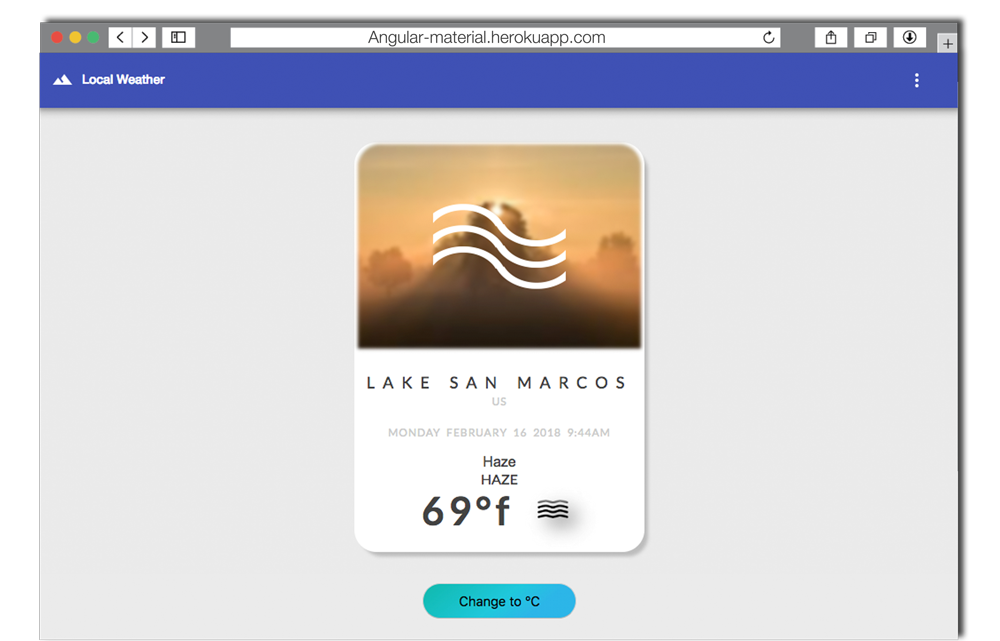
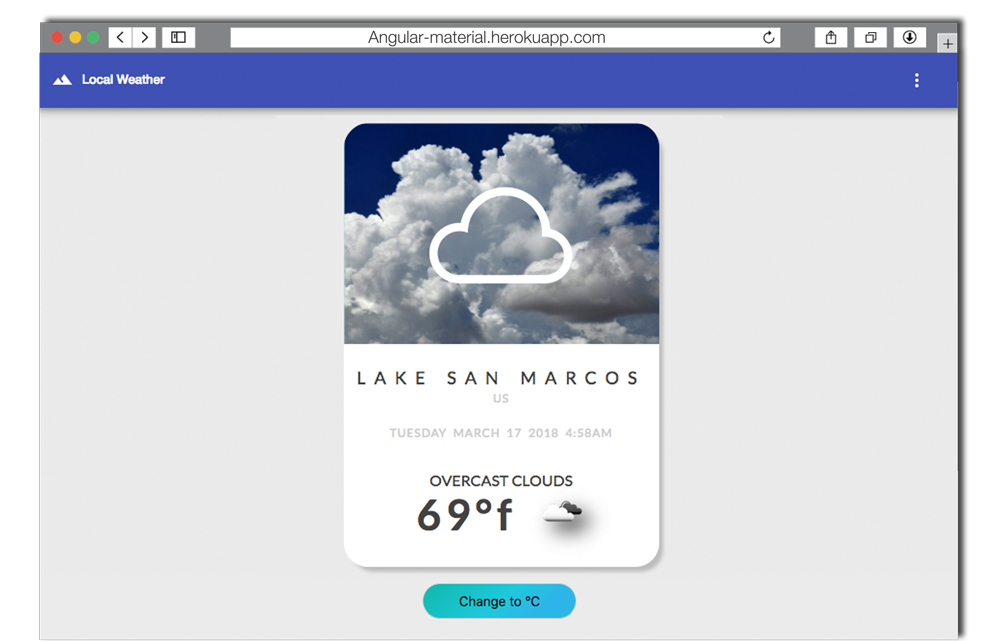
updates
updates

Changed region(s): [[0.341, 0.1872, 0.682, 0.9048]]

diff --git a/ng5-material/src/index.html b/ng5-material/src/index.html
@@ -28,7 +28,7 @@
   <!-- MATERIAL ICONS -->
   <link href="https://fonts.googleapis.com/icon?family=Material+Icons" rel="stylesheet">
  <!-- Original  -->
- <script src="https://cdnjs.cloudflare.com/ajax/libs/jquery/3.3.1/jquery.min.js"></script>
+ <script src="https://cdnjs.cloudflare.com/ajax/libs/jquery/2.1.3/jquery.min.js"></script>
 
  <style>
 
@@ -44,13 +44,13 @@
             #icon{-webkit-filter: drop-shadow(10px 10px 10px #424242 );filter: drop-shadow(10px 10px 10px #424242);position:relative;-webkit-animation: backandforth 25s ease 0s;-webkit-animation-iteration-count:infinite;animation: backandforth 25s ease 0s;animation-iteration-count:infinite;}
 
             #deck{position: absolute;margin: auto;top: 0;right: 0;bottom: 0;left: 0;max-width: 324px;max-height: 458px;border-radius: 25px;color:#424242;-webkit-box-shadow: 6px 7px 5px -2px rgba(66,66,66,0.27);-moz-box-shadow: 6px 7px 5px -2px rgba(66,66,66,0.27);box-shadow: 6px 7px 5px -2px rgba(66,66,66,0.27);padding:2px;background-color:white;}
-            #image{font-size: 50px; height:230px;z-index: -1;filter: blur(2px);margin:0px;max-width: 324px;border-radius: 25px 25px 0 0;background-color: lightblue;}
+            #image{font-size: 50px;height:230px;z-index: -1;filter: blur(0px);margin:-2px 0px -3px -2px;width: 328px;border-radius: 25px 25px 0 0;background-color: lightblue;}
             #image2{width:150px;height: 150px;left:27%; margin-top: 40px;position:absolute;z-index: 1;}
             .info{padding-top: 0px;}
             #city{text-transform: lowercase;letter-spacing: 9px;font-size: 25px;font-family: 'Lato', sans-serif;font-variant: small-caps;padding-bottom: 10px;}
             #country{font-family: 'Lato', sans-serif;}
             #date{font-family: Lato;}
-            #description{font-family: 'Lato', sans-serif;text-transform: uppercase;}
+            #description{padding-top:15px;font-family: 'Lato', sans-serif;text-transform: uppercase;}
             small .small-style {text-transform: uppercase;font-size: 12px;line-height: 5px;letter-spacing: 1px;color:#CCCCCC;}
             #temp{font-family: 'Lato', sans-serif;font-size: 44px;letter-spacing: 5px;font-weight: bold;}
             #temp2{font-family: 'Lato', sans-serif;font-size: 44px;letter-spacing: 5px;font-weight: bold;}
@@ -107,7 +107,7 @@ function showPosition(position) {
     $.get(myURL, function (data) {
         document.getElementById('city').innerHTML = data.name;
         document.getElementById('country').innerHTML = data.sys.country;
-        document.getElementById('main').innerHTML = data.weather[0].main;
+        // document.getElementById('main').innerHTML = data.weather[0].main;
 
         document.getElementById('description').innerHTML = data.weather[0].description;
         srcURL = data.weather[0].icon;

diff --git a/ng5-material/src/app/app.component.html b/ng5-material/src/app/app.component.html
@@ -49,9 +49,9 @@
                             <span id="date" class="small-style">{{date}}</span>
                           </small>
                     </p>
-                    <div id="main">
+                    <!-- <div id="main">
                         {{main}}
-                    </div>
+                    </div> -->
                     <div id="description">
                         {{description}}
                     </div>

diff --git a/ng5-material/src/app/app.component.ts b/ng5-material/src/app/app.component.ts
@@ -49,7 +49,7 @@ export class AppComponent {
     city = '#CITY';
     country = '#COUNTRY';
     date = 'Day | Month 00 | 00:00am';
-    main = '#MAIN';
+    // main = '#MAIN';
     description =  '#DESCRIPTION';
     temp = '#TEMP°';
     temp2 = '#TEMP2';
